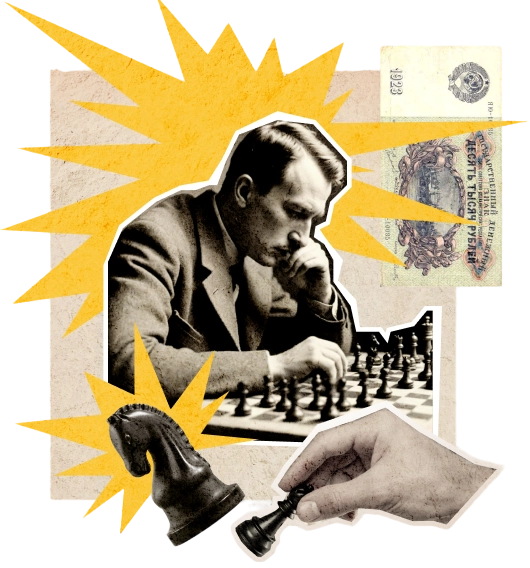
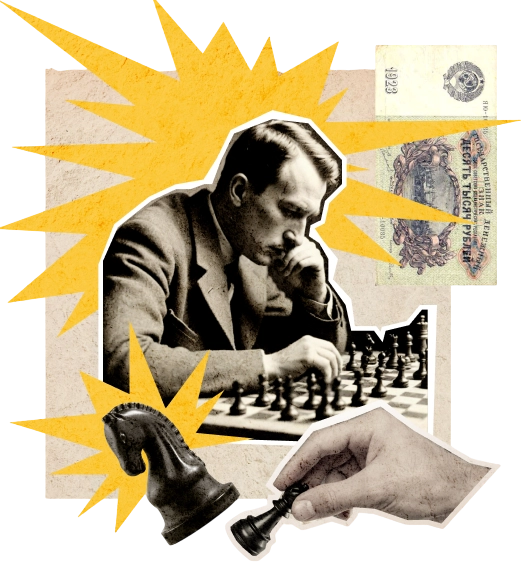
style: fix after perfect pixel

diff --git a/src/blocks/support/support.css b/src/blocks/support/support.css
@@ -1,4 +1,5 @@
 .support {
+  margin-bottom: -9px;
   display: flex;
   flex-direction: column;
   gap: 42px;
@@ -13,12 +14,8 @@
 
 .support__container-bottom {
   display: grid;
-  grid-template-columns: fit-content(521px) fit-content(704px);
-  grid-template-areas:
-    'poster title'
-    'poster table'
-    'poster other';
-  row-gap: 48px;
+  grid-template-columns: minmax(200px, 521px) minmax(400px, 704px);
+  align-items: center;
 }
 
 .support__title {
@@ -38,7 +35,8 @@
 }
 
 .support__title_bottom {
-  grid-area: title;
+  grid-column: 2;
+  grid-row: 1;
 }
 
 .support__photo {
@@ -49,22 +47,25 @@
 }
 
 .support__picture {
-  grid-area: poster;
-  align-self: center;
+  grid-column: 1;
+  grid-row: span 3;
+  margin-left: -23px;
 }
 
 .support__poster {
-  margin-left: -23px;
   max-width: 521px;
-  aspect-ratio: 530 / 568;
+  aspect-ratio: 521 / 568;
 }
 
 .support__table {
-  grid-area: table;
+  grid-column: 2;
+  grid-row: 2;
+  margin-top: 20px;
 }
 
 .support__other {
-  grid-area: other;
+  grid-column: 2;
+  grid-row: 3;
   font-family: var(--font-regular);
   font-style: normal;
   font-weight: 400;
@@ -73,28 +74,46 @@
   color: var(--accent-color-secondary);
 }
 
+@media (max-width: 1300px) {
+  .support {
+    margin-bottom: 0;
+  }
+
+  .support__container-bottom {
+    column-gap: 30px;
+    row-gap: 40px;
+  }
+
+  .support__table {
+    margin-top: 0;
+  }
+}
+
 @media (max-width: 1200px) {
   .support__container-top {
     column-gap: 30px;
   }
 
-  .support__container-bottom {
-    align-items: center;
-    grid-template-areas:
-    'poster title'
-    'table table'
-    'other other';
-    row-gap: 20px;
+  .support__picture {
+    grid-column: 1;
+    grid-row: 1;
+    margin-left: -15px;
+  }
+
+  .support__table {
+    grid-column:span 2;
+    grid-row: 2;
   }
 
   .support__other {
-    margin-top: 30px;
+    grid-column: span 2;
   }
+
 }
 
 @media (max-width: 700px) {
   .support {
-    gap: 34px;
+    gap: 37px;
   }
 
   .support__container-top {
@@ -106,40 +125,44 @@
 
   .support__title-gap {
     display: block;
-    padding-top: 300px;
+    padding-top: 261px;
   }
 
   .support__photo {
+    max-width: 335px;
     position: absolute;
-    top: 46%;
-    left: 46%;
-    transform: translate(-46%, -46%);
+    top: 50%;
+    left: 50%;
+    transform: translate(-50%, -50%);
   }
 
   .support__container-bottom {
     display: flex;
     flex-direction: column;
-    gap: 24px;
+    align-items: stretch;
+    gap: 23px;
   }
 
-  .support__table {
-    align-self: stretch;
-    margin-top: 24px;
-    margin-bottom: 16px;
-  }
-
-  .support__poster {
+  .support__picture {
     margin-left: 0;
   }
 
-  .support__other {
-    align-self: start;
-    margin-top: 0;
+  .support__table {
+    margin-top: 22px;
+    margin-bottom: 16px;
   }
 }
 
-@media (max-width: 400px) {
-  .support__title-gap {
-    padding-top: 261px;
+@media (max-width: 480px) {
+  .support__container-top,
+  .support__title_bottom,
+  .support__table,
+  .support__other {
+    padding-left: 20px;
+    padding-right: 20px;
+  }
+
+  .support__poster {
+    max-height: 402px;
   }
 }

diff --git a/src/blocks/table/table.css b/src/blocks/table/table.css
@@ -5,7 +5,7 @@
 
 .table__row {
   display: grid;
-  grid-template-columns: 46% 54%;
+  grid-template-columns: minmax(250px, 306px) minmax(350px, 398px);
   align-items: center;
   font-family: var(--font-regular);
   font-style: normal;
@@ -54,6 +54,12 @@
   text-decoration-color: var(--accent-color);
 }
 
+@media (max-width: 1200px) {
+  .table__row {
+    grid-template-columns: repeat(2, 1fr);
+  }
+}
+
 @media (max-width: 700px) {
   .table__row {
     display: flex;
@@ -79,6 +85,6 @@
   }
 
   .table__text {
-    padding: 0 0 16px 0;
+    padding: 0 0 14px 0;
   }
 }

diff --git a/src/index.html b/src/index.html
@@ -56,7 +56,7 @@
       </div>
     </section>
 
-    <section class="support page__container content__section content__section_first">
+    <section class="support page__container page__container_type_overflow content__section content__section_first">
       <div class="support__container-top" id="support">
         <h2 class="support__title">
           <span>Чтобы&nbsp;поддержать Международный васюкинский турнир</span>

diff --git a/src/blocks/main/main.css b/src/blocks/main/main.css
@@ -27,7 +27,7 @@
   font-family: var(--font-title);
   font-style: normal;
   font-weight: 400;
-  font-size: clamp(36px, 4.2vw, 60px);
+  font-size: clamp(36px, 4.4vw, 60px);
   line-height: 110%;
   color: var(--text-color);
   text-transform: uppercase;
@@ -68,10 +68,10 @@
 
 @media (max-width: 1100px) {
   .main__buttons {
-    margin-top: 8px;
+    margin-top: 7px;
     flex-direction: column;
     align-items: center;
-    gap: 14px;
+    gap: 11px;
   }
 }
 

diff --git a/src/blocks/steps/steps.css b/src/blocks/steps/steps.css
@@ -55,7 +55,7 @@
 @media (max-width: 1100px) {
   .steps__subtitle {
     margin-left: 0;
-    margin-top: 12px;
+    margin-top: 13px;
     display: block;
     max-width: fit-content;
   }
@@ -73,7 +73,7 @@
   }
 
   .steps {
-    gap: 10px;
+    gap: 12px;
   }
 
   .steps__container {
@@ -81,8 +81,8 @@
   }
 
   .steps__title {
-    padding-left: 25px;
-    padding-right: 25px;
+    padding-left: 20px;
+    padding-right: 20px;
   }
 
   .steps__controls {

diff --git a/src/blocks/players/players.css b/src/blocks/players/players.css
@@ -4,7 +4,7 @@
   grid-template-areas:
     'title title controls'
     'list list list';
-  row-gap: 60px;
+  row-gap: 65px;
 }
 
 .players__title {
@@ -33,12 +33,12 @@
     'title'
     'list'
     'controls';
-    row-gap: 40px;
+    row-gap: 38px;
   }
 
   .players__title {
-    padding-left: 25px;
-    padding-right: 25px;
+    padding-left: 20px;
+    padding-right: 20px;
   }
 
   .players__controls {

diff --git a/src/blocks/card-player/card-player.css b/src/blocks/card-player/card-player.css
@@ -2,7 +2,7 @@
   display: flex;
   flex-direction: column;
   align-items: center;
-  gap: 6px;
+  gap: 8px;
 }
 
 .card-player__image {
@@ -26,7 +26,7 @@
 }
 
 .card-player__description {
-  margin-bottom: 14px;
+  margin-bottom: 11px;
   font-family: var(--font-regular);
   font-style: normal;
   font-weight: 400;

diff --git a/src/blocks/card-list/card-list.css b/src/blocks/card-list/card-list.css
@@ -148,7 +148,7 @@
   }
 
   .card-list__item {
-    padding-top: 62px;
+    padding-top: 63px;
   }
 
   .card-list__item_last {
@@ -156,6 +156,6 @@
   }
 
   .card-list__item_double ~ .card-list__item_double {
-    padding-top: 8px;
+    padding-top: 11px;
   }
 }

diff --git a/src/blocks/controls/controls.css b/src/blocks/controls/controls.css
@@ -75,11 +75,11 @@
 }
 
 .controls__counter_left {
-  padding-left: 4px;
+  padding-left: 9px;
 }
 
 .controls__counter_right {
-  padding-right: 4px;
+  padding-right: 9px;
 }
 
 @media (max-width: 700px) {

diff --git a/src/blocks/page/page.css b/src/blocks/page/page.css
@@ -37,4 +37,9 @@
   .page__container_type_header {
     margin-bottom: -68px;
   }
+
+  .page__container_type_overflow {
+    padding-left: 0;
+    padding-right: 0;
+  }
 }
